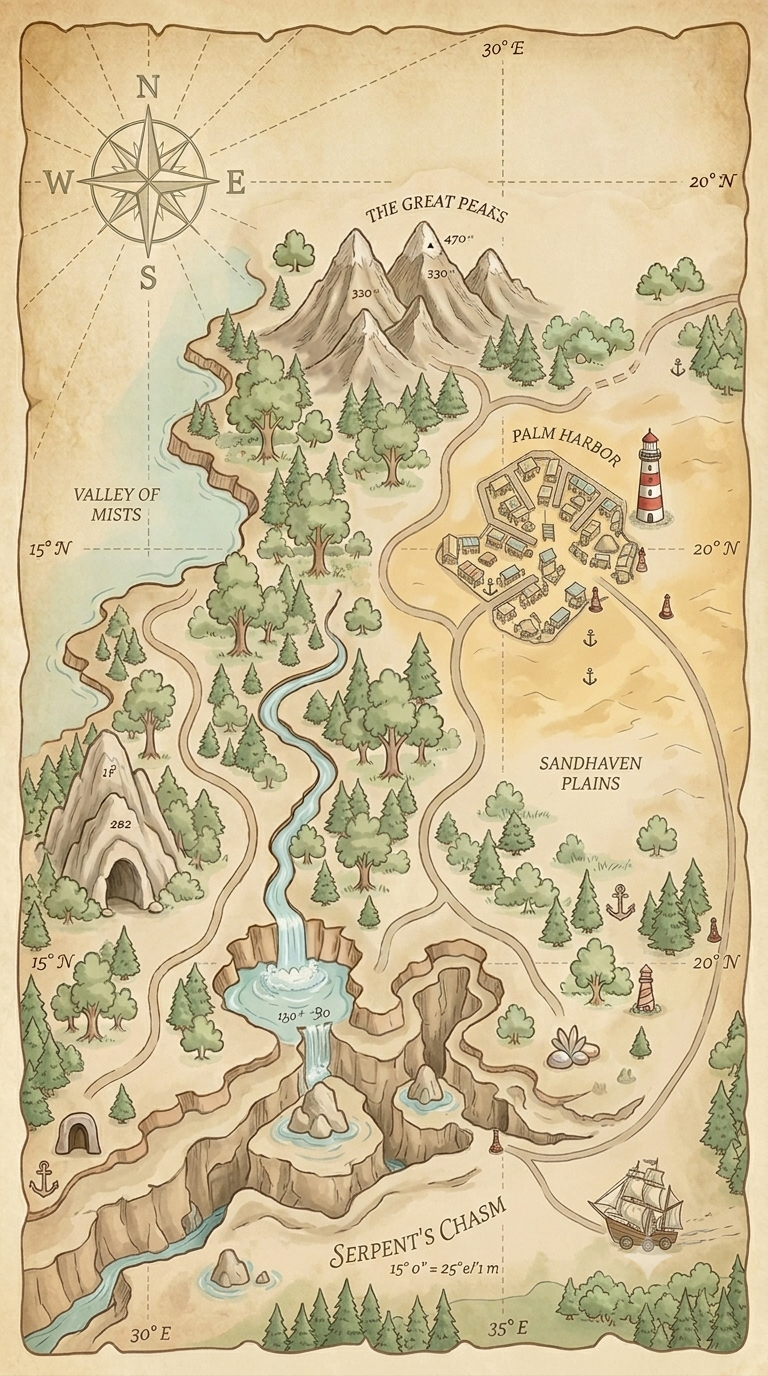
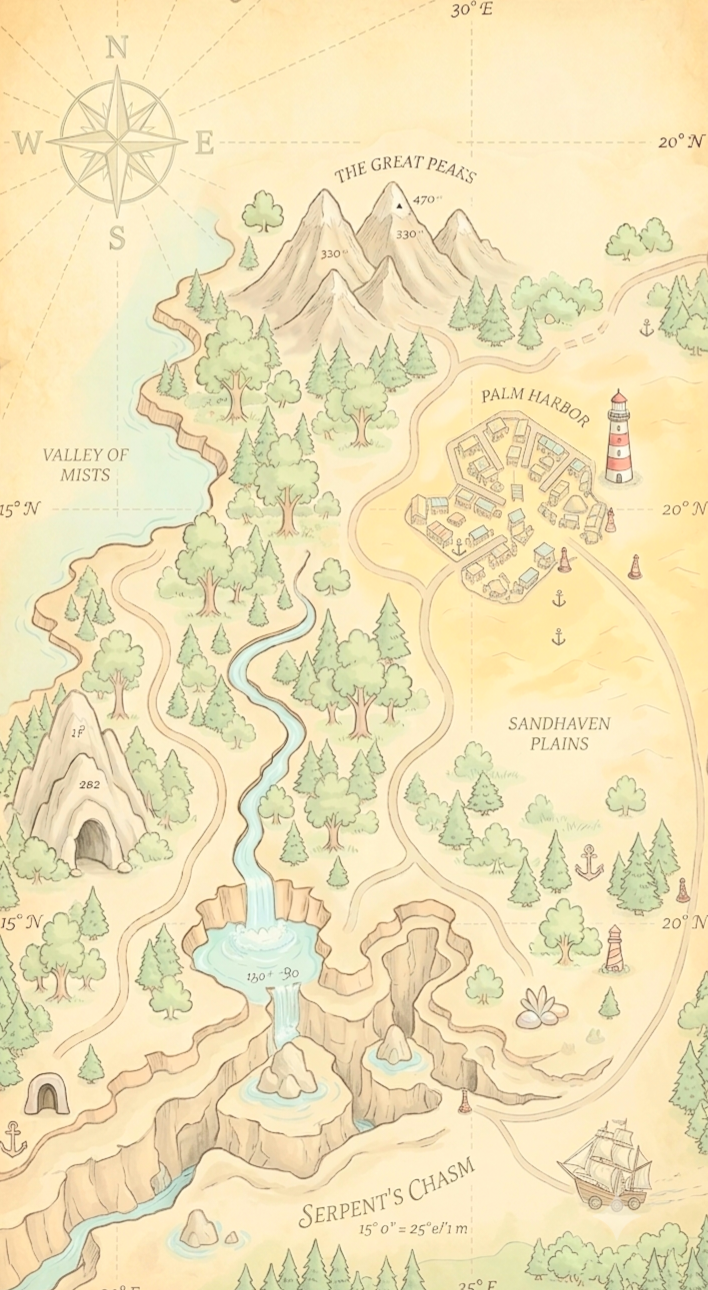
feat(ui): fantasy map background, My Hunts page, FAB elevation
- Replace bg-map.png with the provided fantasy map image; remove the
  heavy brightness/contrast filter (image is already low-contrast)
- Create /my-hunts route + MyHunts screen showing drafts and published
  hunts; BottomBar "My Hunts" button navigates there instead of scrolling
  on the home page
- FAB elevation reduced to -10 px / 58 px for a subtler "slightly higher"
  lift over the other bottom-bar buttons

Claude-Session: https://claude.ai/code/session_01Fnz3AenF2yY9NbfpqLc8cS

diff --git a/packages/web/src/screens/MyHunts.tsx b/packages/web/src/screens/MyHunts.tsx
@@ -1,0 +1,88 @@
+import { useState } from 'react';
+import { useNavigate } from 'react-router-dom';
+import { useAuth } from '../auth/AuthContext.js';
+import { api } from '../services/apiClient.js';
+import { useAsync } from '../hooks/useAsync.js';
+import { BottomBar, Card, Page, Spinner } from '../ui/index.js';
+import { DraftCard, PublishedRouteCard } from './Home.js';
+
+export function MyHunts() {
+  const { user } = useAuth();
+  const navigate = useNavigate();
+  const { data: routes, loading, error, reload } = useAsync(() => api.listRoutes(), []);
+  const [creating, setCreating] = useState(false);
+  const [deletingId, setDeletingId] = useState<string | null>(null);
+
+  const myDrafts = user ? (routes?.filter((r) => r.authorId === user.id && r.status === 'draft') ?? []) : [];
+  const myRoutes = user ? (routes?.filter((r) => r.authorId === user.id && r.status === 'ready') ?? []) : [];
+
+  async function createRoute() {
+    setCreating(true);
+    try {
+      const route = await api.createRoute({ title: 'My new hunt' });
+      navigate(`/build/${route.id}`);
+    } finally {
+      setCreating(false);
+    }
+  }
+
+  async function deleteDraft(routeId: string) {
+    setDeletingId(routeId);
+    try {
+      await api.deleteRoute(routeId);
+      reload();
+    } finally {
+      setDeletingId(null);
+    }
+  }
+
+  return (
+    <Page title="My Hunts" onBack={() => navigate('/')}>
+      <div className="stack">
+        {loading && <Spinner label="Loading…" />}
+        {error && <p style={{ color: 'var(--color-danger)' }}>{error}</p>}
+
+        <section className="stack">
+          <h2>My Drafts</h2>
+          {myDrafts.length === 0 && !loading && (
+            <Card><p className="center muted">No drafts yet.</p></Card>
+          )}
+          {myDrafts.map((r) => (
+            <DraftCard
+              key={r.id}
+              route={r}
+              onContinue={() => navigate(`/build/${r.id}`)}
+              onDelete={() => deleteDraft(r.id)}
+            />
+          ))}
+        </section>
+
+        <section className="stack">
+          <h2>My Published Hunts</h2>
+          {myRoutes.length === 0 && !loading && (
+            <Card><p className="center muted">No published hunts yet.</p></Card>
+          )}
+          {myRoutes.map((r) => (
+            <PublishedRouteCard
+              key={r.id}
+              route={r}
+              onPlay={() => navigate(`/hunt/${r.id}`)}
+              onEdit={() => navigate(`/build/${r.id}`)}
+              onDelete={() => deleteDraft(r.id)}
+              deleting={deletingId === r.id}
+            />
+          ))}
+        </section>
+      </div>
+
+      <BottomBar
+        onCreate={createRoute}
+        onJoin={() => navigate('/')}
+        onMyHunts={() => {}}
+        onMyScores={() => navigate('/')}
+        onMyHistory={() => navigate('/')}
+        creating={creating}
+      />
+    </Page>
+  );
+}

diff --git a/packages/web/src/screens/Home.tsx b/packages/web/src/screens/Home.tsx
@@ -263,12 +263,7 @@ export function Home() {
       <BottomBar
         onCreate={createRoute}
         onJoin={() => setJoinOpen(true)}
-        onMyHunts={() => {
-          const el =
-            document.getElementById('home-my-drafts') ??
-            document.getElementById('home-my-published-hunts');
-          el?.scrollIntoView({ behavior: 'smooth', block: 'start' });
-        }}
+        onMyHunts={() => navigate('/my-hunts')}
         onMyScores={() => {
           document.getElementById('home-past-hunts')?.scrollIntoView({ behavior: 'smooth', block: 'start' });
         }}
@@ -750,7 +745,7 @@ function ActiveTeamHuntCard({
   );
 }
 
-function PublishedRouteCard({
+export function PublishedRouteCard({
   route,
   onPlay,
   onEdit,
@@ -807,7 +802,7 @@ function PublishedRouteCard({
   );
 }
 
-function DraftCard({ route, onContinue, onDelete }: { route: RouteSummary; onContinue: () => void; onDelete: () => void }) {
+export function DraftCard({ route, onContinue, onDelete }: { route: RouteSummary; onContinue: () => void; onDelete: () => void }) {
   const [expanded, setExpanded] = useState(false);
   const [confirmDelete, setConfirmDelete] = useState(false);
 

diff --git a/packages/web/src/styles/theme.css b/packages/web/src/styles/theme.css
@@ -75,10 +75,10 @@ body {
 body::before {
   content: '';
   position: fixed;
-  inset: -8%;
+  inset: 0;
   z-index: -1;
-  background: url('/bg-map.png') center center / cover no-repeat;
-  filter: brightness(1.9) contrast(0.38);
+  background: url('/bg-map.png') center top / cover no-repeat;
+  opacity: 0.55;
 }
 
 h1, h2, h3 { margin: 0 0 var(--space-2); line-height: 1.1; font-weight: 800; }

diff --git a/packages/web/src/ui/ui.css b/packages/web/src/ui/ui.css
@@ -270,9 +270,9 @@
 .bottombar__fab {
   flex: none;
   position: relative;
-  top: -18px;
-  width: 62px;
-  height: 62px;
+  top: -10px;
+  width: 58px;
+  height: 58px;
   border: none;
   border-radius: var(--radius-pill);
   background: #ffffff;

diff --git a/packages/web/src/App.tsx b/packages/web/src/App.tsx
@@ -12,6 +12,7 @@ import { TeamHuntPlayer } from './screens/TeamHuntPlayer.js';
 import { TeamResults } from './screens/TeamResults.js';
 import { Admin } from './screens/Admin.js';
 import { Report } from './screens/Report.js';
+import { MyHunts } from './screens/MyHunts.js';
 import { AppBar } from './ui/index.js';
 
 /** Routes are gated by sign-in. The URL is preserved, so shared /play links
@@ -35,6 +36,7 @@ function AppRoutes() {
         <Route path="/team/:teamId" element={<TeamLobby />} />
         <Route path="/team/:teamId/play" element={<TeamHuntPlayer />} />
         <Route path="/team/:teamId/results" element={<TeamResults />} />
+        <Route path="/my-hunts" element={<MyHunts />} />
         <Route path="/admin" element={<Admin />} />
         <Route path="/report" element={<Report />} />
         <Route path="*" element={<Navigate to="/" replace />} />